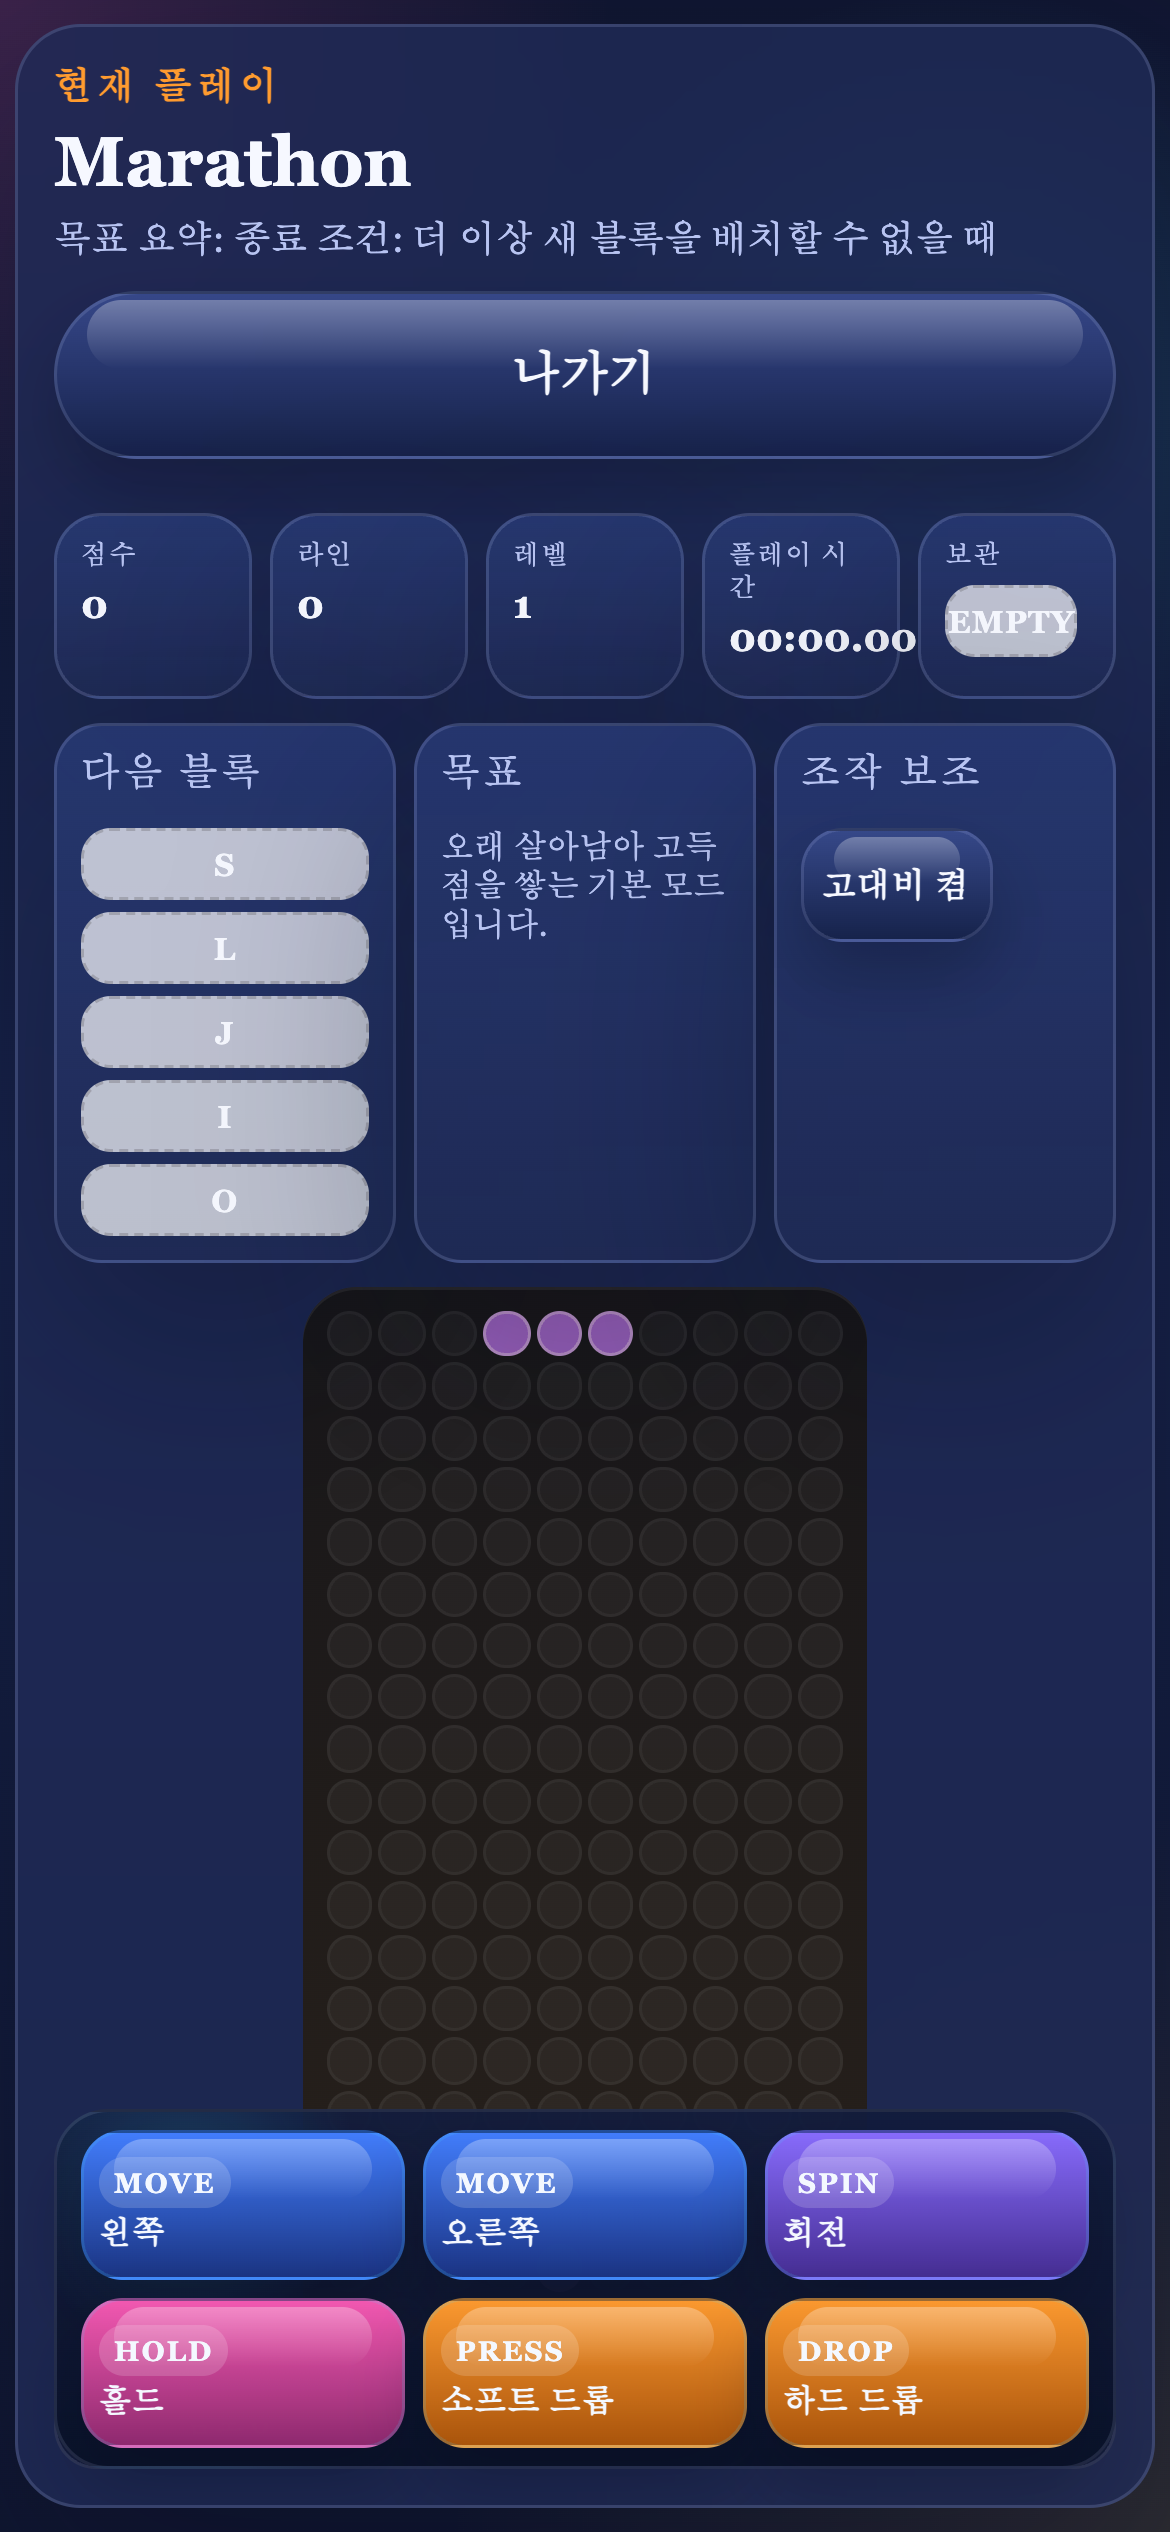
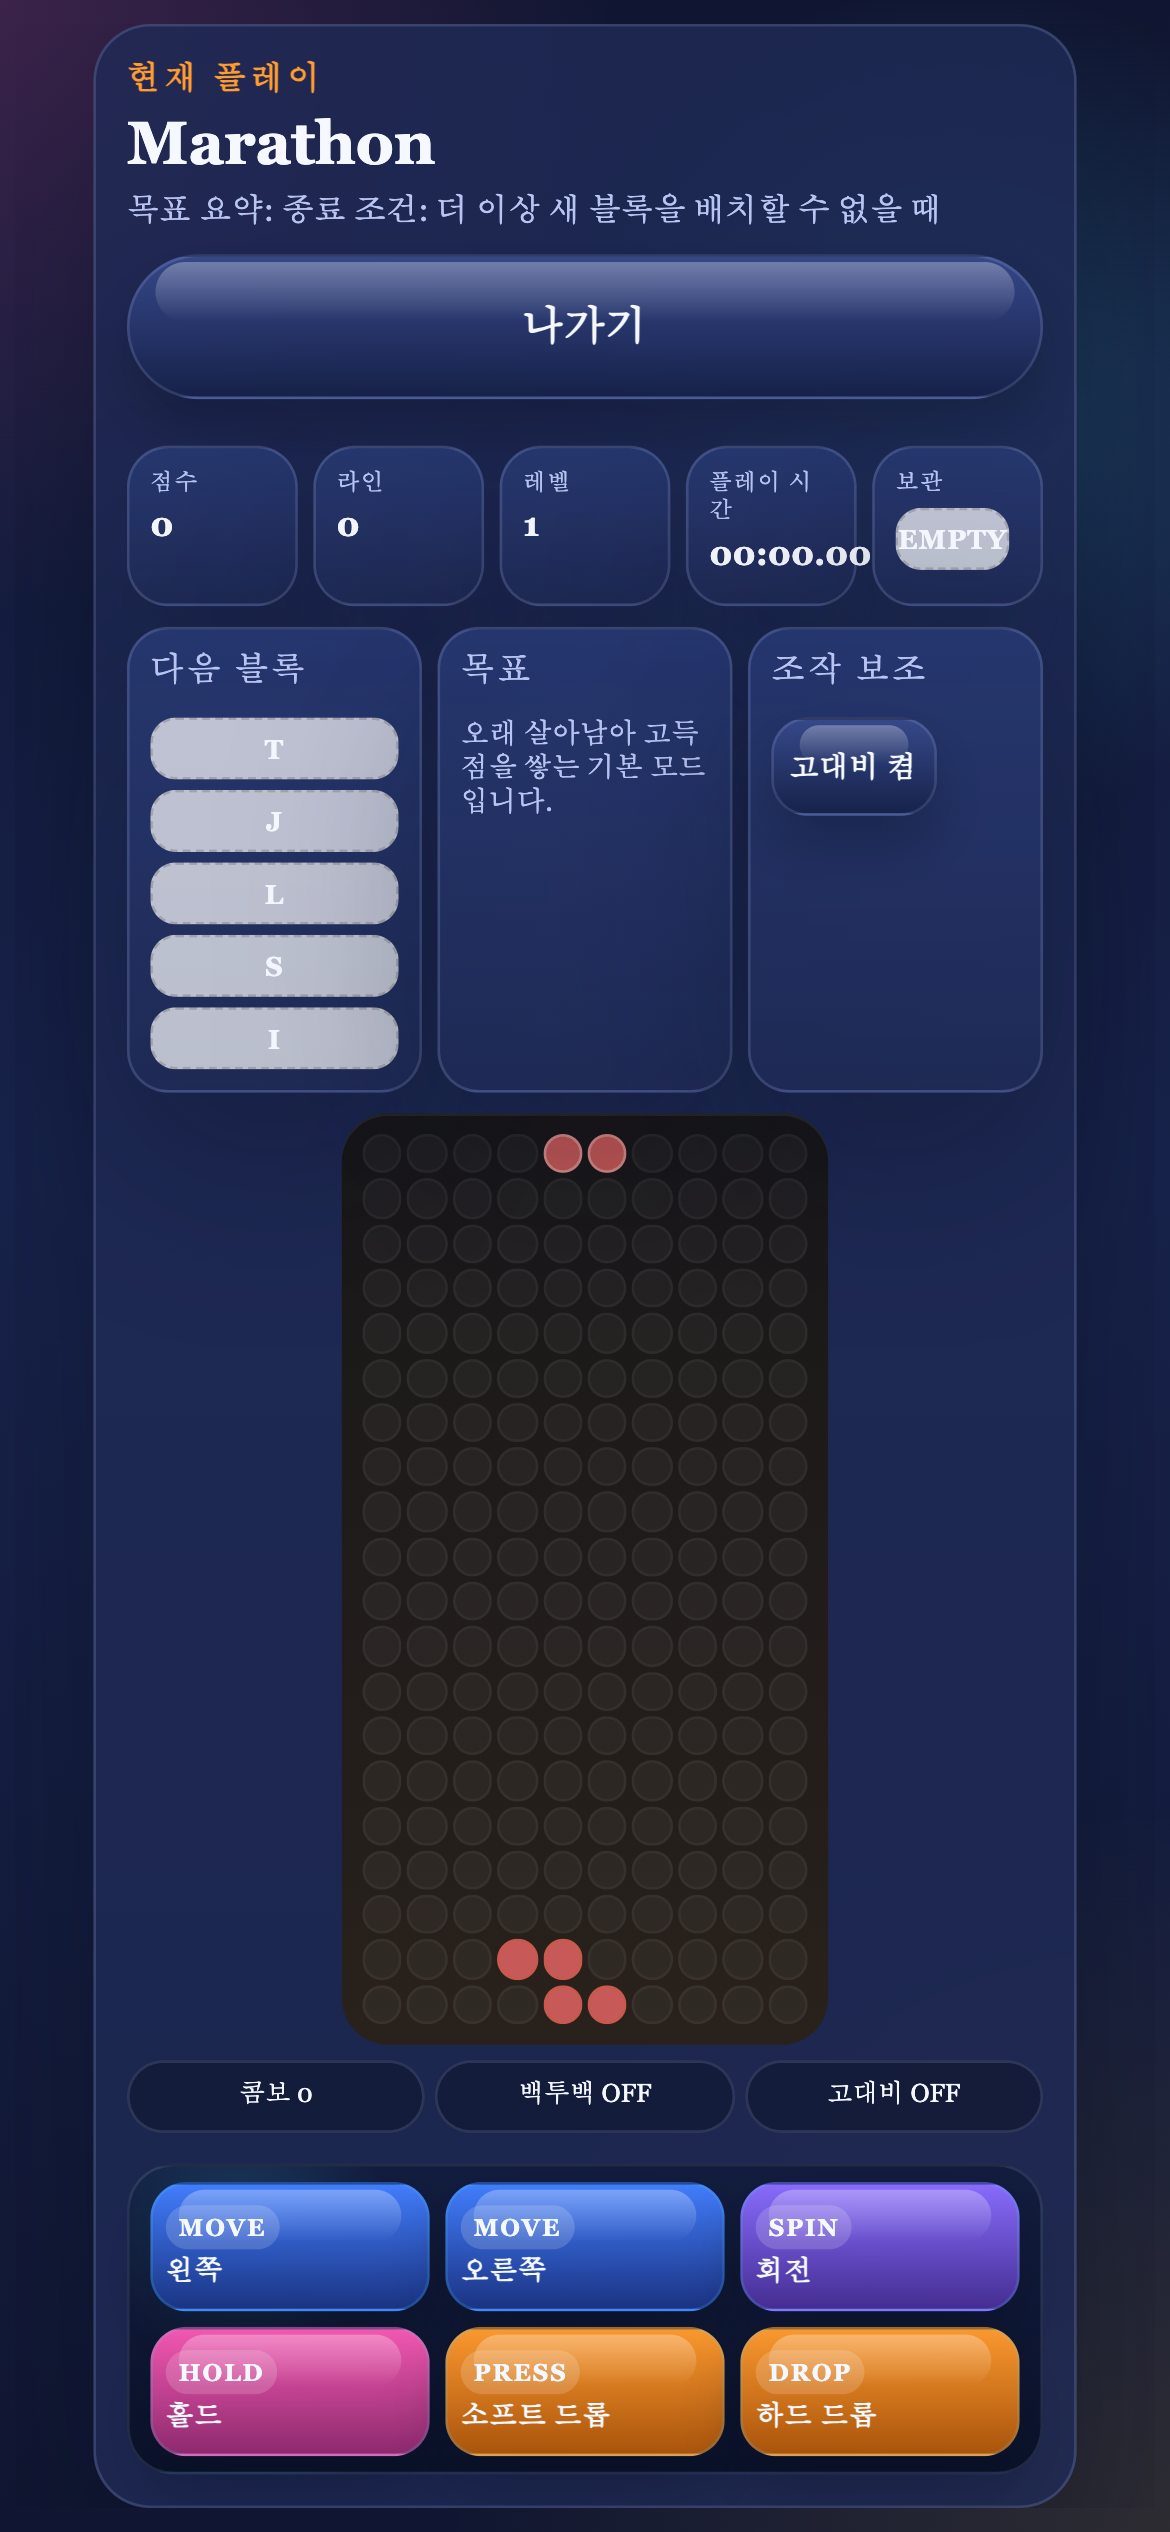
chore: add one-shot runtime scripts and sync QA docs

diff --git a/artifacts/e2e/2026-03-12/report/index.html b/artifacts/e2e/2026-03-12/report/index.html
@@ -74,4 +74,4 @@ Error generating stack: `+u.message+`
   </body>
 </html>
 <script>
[2 lines of base64/hex data omitted]

diff --git a/tests/e2e/landing.spec.ts b/tests/e2e/landing.spec.ts
@@ -133,8 +133,15 @@ test("P1-MOBILE-001 landing and result keep critical CTAs above the fold at 360x
 test("P1-PLAY-001 game HUD, board, and touch dock stay within one mobile viewport", async ({
   page
 }) => {
-  for (const viewportHeight of [800, 720, 680]) {
-    await page.setViewportSize({ width: 360, height: viewportHeight });
+  const viewports = [
+    { width: 360, height: 800 },
+    { width: 360, height: 720 },
+    { width: 360, height: 680 },
+    { width: 540, height: 680 }
+  ];
+
+  for (const viewport of viewports) {
+    await page.setViewportSize(viewport);
     await page.goto("/");
     await page.getByTestId("start-button").click();
 
@@ -167,7 +174,7 @@ test("P1-PLAY-001 game HUD, board, and touch dock stay within one mobile viewpor
       await expect(locator).toBeVisible();
       const box = await locator.boundingBox();
       expect(box).not.toBeNull();
-      expect(box!.y + box!.height).toBeLessThanOrEqual(viewportHeight);
+      expect(box!.y + box!.height).toBeLessThanOrEqual(viewport.height);
     }
   }
 });

diff --git a/apps/web/src/app/globals.css b/apps/web/src/app/globals.css
@@ -386,7 +386,25 @@ select:focus-visible {
 }
 
 .page-shell.screen-playing {
+  --play-scale: 1;
+  --play-viewport-height: auto;
   padding-bottom: calc(18px + var(--safe-bottom));
+}
+
+.screen-playing .play-viewport {
+  width: 100%;
+  min-height: 0;
+  height: var(--play-viewport-height);
+  display: flex;
+  justify-content: center;
+  align-items: flex-start;
+  overflow: hidden;
+}
+
+.screen-playing .play-scale-frame {
+  width: 100%;
+  transform-origin: top center;
+  transform: scale(var(--play-scale));
 }
 
 .compact-hero h1 {

diff --git a/apps/web/src/app/game-client.tsx b/apps/web/src/app/game-client.tsx
@@ -279,7 +279,7 @@ function modeActionVariant(mode: GameMode): CtaVariant {
 }
 
 function resolveApiBaseUrl() {
-  return process.env.NEXT_PUBLIC_API_BASE_URL ?? "http://localhost:3001/v1";
+  return process.env.NEXT_PUBLIC_API_BASE_URL ?? "http://localhost:60040/v1";
 }
 
 async function fetchJson<T>(path: string, init?: RequestInit): Promise<T> {

diff --git a/apps/api/src/main.ts b/apps/api/src/main.ts
@@ -17,7 +17,7 @@ async function bootstrap() {
     origin: true,
     credentials: true
   });
-  const port = Number(process.env.PORT ?? 3001);
+  const port = Number(process.env.PORT ?? 60040);
   const host = process.env.HOST ?? "127.0.0.1";
 
   await app.listen({ port, host });

diff --git a/3.개발자/08_작업관리대장.md b/3.개발자/08_작업관리대장.md
@@ -70,6 +70,7 @@
 | FE-018 | FE | 360x800 랜딩 CTA 3개 first-fold 보정 | High | Jaeho | DEV_DONE | FE-012 | `360x800`에서 `start-button`, `mode-button`, `ranking-button` 3개가 스크롤 없이 first-fold에 동시에 노출 | 2026-03-13 | 2026-03-13 | CTA를 Hero 상단으로 재배치하고 모바일 전용 3열 레이아웃을 적용했다. `pnpm test`, `pnpm build`, `pnpm test:e2e` 통과 |
 | FE-019 | FE | 결과 화면 CTA 4개 first-fold 및 2x2 모바일 구조 보정 | High | Jaeho | DEV_DONE | FE-010, FE-017 | `390x844`, `360x800`에서 `retry`, `ranking`, `share`, `save-record` 4개 CTA가 first-fold에 보이고 2x2 구조가 유지 | 2026-03-13 | 2026-03-13 | CTA 블록을 결과 Hero 상단으로 이동하고 모바일 전용 2x2 grid, 압축 요약 카드 레이아웃을 적용했다. `pnpm test`, `pnpm build`, `pnpm test:e2e` 통과 |
 | FE-020 | FE | 설정 시트 필수 옵션 ghost/guide 토글 보강 | Medium | Jaeho | DEV_DONE | FE-011 | 설정 시트에 `sheet-ghost-toggle`, `sheet-guide-toggle` 제공 및 동작 반영 | 2026-03-13 | 2026-03-13 | 설정 타입에 `guideOverlayEnabled`를 추가하고 고스트 피스/가이드 토글을 실제 상태와 연동했다. `pnpm test`, `pnpm build`, `pnpm test:e2e` 통과 |
+| FE-021 | FE | 플레이 화면 높이 자동 축소 및 뷰포트 적응 | High | Jaeho | DEV_DONE | FE-020 | 창 높이와 모바일 웹뷰 높이가 변해도 HUD, 보드, 조작 도크가 한 화면 안에 모두 보이도록 자동 축소된다 | 2026-03-13 | 2026-03-13 | `visualViewport`와 실측 레이아웃 높이 기준으로 플레이 패널 스케일을 동적으로 계산한다. 모바일 폭뿐 아니라 일반 브라우저 창 축소에도 적용되도록 범위를 확장했고, `360x800`, `360x720`, `360x680`, `540x680` E2E와 `pnpm build`, `pnpm test:e2e`를 통과했다 |
 | OPS-008 | OPS | 에셋 원본 출처 기록 및 credits 구조 정의 | High | Codex | DEV_DONE | FE-016 | 외부 SVG/배경/아이콘 반입 전 출처 URL, 라이선스, 크레딧 위치 정의 완료 | 2026-03-12 | 2026-03-12 | `/credits` 경로와 `apps/web/public/assets-source` 인벤토리 파일 생성, 검증 명령 통과 |
 | BE-003 | BE | 결과 제출 멱등 처리 구현 | High |  | TODO | BE-002 | 동일 키 재전송 정책 통과 |  |  |  |
 | FE-007 | FE | 첫 3판 PB 강조 결과 상태 확장 | Medium |  | TODO | BE-003 | 첫 3판 개인 최고 기록 갱신 시 강조 연출과 CTA 인접 유도 상태 제공 |  |  | D3 이전 선행 설계 반영 대상 |
@@ -80,10 +81,10 @@
 | QA-003 | QA | D2 선행 보정 제3자 시험 수행 | High | 테스터 | DONE | FE-006 | `GE-003 ~ FE-006` 범위 결과 기록 및 판정 | 2026-03-12 | 2026-03-12 | 결과서 직접 확인 Pass, 개발 측 `pnpm test:e2e` 재실행 Pass로 종합 종료 |
 | QA-004 | QA | D2 UI 1차 화면 제3자 시험 수행 | High | 테스터 | TODO | FE-011 | `FE-008 ~ FE-011` 범위 결과 기록 및 판정 | 2026-03-12 |  | 전달 문서 `21_테스터전달_D2_UI1차시험요청.md` 기준 수행 예정 |
 | QA-005 | QA | D2 UI 강화 재시험 수행 | High | 테스터 | QA_FAIL | FE-013 | `FE-008 ~ FE-013` 범위 구조/시각 강화 결과 기록 및 판정 | 2026-03-12 | 2026-03-13 | `11_D2_UI강화_시험결과서.md` 기준 `Partial Pass`, `TC-001A`, `TC-016`, `TC-016A`, `TC-026B` 미충족 |
-| QA-006 | QA | D2 UI 강화 보정 후 재시험 수행 | High | 테스터 | TODO | FE-018, FE-019, FE-020 | `360x800` 랜딩 CTA, 결과 CTA 2x2/first-fold, 설정 시트 필수 옵션 재검증 | 2026-03-13 |  | 보정 구현과 내부 검증 완료, 전달 문서 `25_테스터전달_D2_UI보정_재시험요청.md` 기준 제3자 재시험만 남음 |
+| QA-006 | QA | D2 UI 강화 보정 후 재시험 수행 | High | 테스터 | TODO | FE-018, FE-019, FE-020, FE-021 | `360x800` 랜딩 CTA, 결과 CTA 2x2/first-fold, 설정 시트 필수 옵션, 플레이 화면 전체 viewport-fit 재검증 | 2026-03-13 |  | 보정 구현과 내부 검증 완료, 전달 문서 `25_테스터전달_D2_UI보정_재시험요청.md` 기준 제3자 재시험만 남음 |
 | ADMIN-001 | ADMIN | Daily Challenge 관리 화면 구현 | Medium |  | TODO | BE-003 | 예약 생성 가능 |  |  |  |
 
 ## 5. 주간 갱신 메모
-- 갱신 일시: 2026-03-13 01:01 KST
+- 갱신 일시: 2026-03-13 01:36 KST
 - 갱신자: Jaeho
-- 주요 변경: `FE-018`, `FE-019`, `FE-020` 보정을 완료했다. 랜딩 CTA를 first-fold 우선 구조로 재배치했고, 결과 화면 CTA 4개를 모바일 2x2 구조로 복원했으며, 설정 시트에 `sheet-ghost-toggle`, `sheet-guide-toggle`과 실제 상태 연동을 추가했다. `pnpm test`, `pnpm build`, `pnpm test:e2e`를 모두 통과했고 현재는 `QA-006` 제3자 재시험 대기 상태다.
+- 주요 변경: `FE-021`을 보정해 플레이 화면 자동 축소를 모바일 폭 전용이 아니라 일반 브라우저 창 축소에도 적용되도록 확장했다. 창 높이와 웹뷰 높이가 변해도 HUD, 보드, 조작 도크가 한 화면 안에 들어오도록 `visualViewport` 기반 동적 스케일 계산을 유지했고, Playwright에 `540x680` 검증을 추가했다. `pnpm build`, `pnpm test:e2e`를 통과했고 현재는 `QA-006` 제3자 재시험 대기 상태다.

diff --git a/3.개발자/10_의사결정기록서.md b/3.개발자/10_의사결정기록서.md
@@ -44,6 +44,7 @@
 | ADR-031 | 2026-03-13 | D2 모드 판정과 시간 추적 기준 | D2 본 기능에서는 중력 tick과 소프트 드롭을 분리해 자동 낙하에 점수를 주지 않고, Sprint는 40라인 달성 시 즉시 `GOAL_COMPLETE`로 종료하며, Daily Challenge는 현재 활성 챌린지의 `ruleType`, `goalValue`를 엔진에 주입해 진행도와 목표 완료를 판정한다 | 기존 구현은 자동 중력도 소프트 드롭 점수로 계산되고 Sprint 결과 화면도 실제 기록 시간이 아니라 진행 라인만 보여 D2 설계 기준과 어긋났다. 모드 규칙과 결과 지표를 지금 고정해야 이후 기록 제출 API와 QA가 같은 기준을 쓸 수 있다 | 현 UI만 유지하고 모드 완료/시간은 D3에서 정리 | game-engine 세션 상태, 공개 웹 HUD/결과 화면, E2E, 이후 BE-003 결과 제출 payload | `GE-004`, `FE-017`을 완료하고 제3자 시험 시 Sprint 완료 시간과 Daily 진행도 노출을 함께 확인한다 | Jaeho | D2 모드 코어 기준 고정 |
 | ADR-032 | 2026-03-13 | D2 UI 강화 Partial Pass 처리 원칙 | 테스터 결과서 `4.테스터/11_D2_UI강화_시험결과서.md`의 `Partial Pass`를 수용하고, Pass 항목은 닫되 미충족 항목은 `FE-018`, `FE-019`, `FE-020`으로 분리해 D2를 유지한다 | 공식 명령은 모두 Pass였지만, 모바일 세로 first-fold와 설정 시트 필수 옵션은 화면설계서 완료 기준의 일부라서 D2를 종료 처리하면 기준이 무너진다 | 결과서의 명령 Pass만 근거로 D2 종료, 실패 항목을 D3 이후로 이월 | 개발계획서, 작업관리대장, 이슈/결함대장, D2 재시험 범위 | 후속 재시험은 `QA-006`으로 다시 인계한다 | Jaeho | D2 종료 보류 |
 | ADR-033 | 2026-03-13 | 모바일 first-fold 우선 구조 재배치 | 랜딩은 CTA 3개를 보상 스탬프보다 앞에 배치하고 `360x800`에서 3열 CTA로 고정한다. 결과 화면은 CTA 4개를 요약 카드보다 먼저 배치하고 모바일에서 2x2 grid를 유지한다. 설정 시트는 `ghost`, `guide` 토글을 실제 설정값으로 관리한다 | D2 UI 강화 재시험 실패 원인은 대부분 콘텐츠 부족이 아니라 세로 뷰포트에서 우선순위가 뒤집힌 구조였다. first-fold 기준은 CSS 미세조정보다 정보 위계 재배치가 더 직접적인 해결책이다 | 기존 순서 유지, 패딩/폰트만 축소 | 공개 웹 랜딩, 결과 화면, 설정 시트, Playwright 회귀 테스트 | `FE-018`, `FE-019`, `FE-020` 완료 후 `QA-006`으로 재시험 인계 | Jaeho | D2 UI 보정 기준 고정 |
+| ADR-034 | 2026-03-13 | 플레이 화면은 창 높이에 맞춰 자동 축소한다 | 플레이 화면은 고정 `100dvh` 압축만으로 닫지 않고, `visualViewport`와 실측 레이아웃 높이를 기준으로 스케일 값을 다시 계산해 HUD, 보드, 조작 도크 전체가 한 화면 안에 보이도록 자동 축소한다. 이 기준은 모바일 폭뿐 아니라 일반 브라우저 창 축소에도 동일하게 적용한다 | 실제 수동 검증에서 전체화면과 일반 창 모두에서 브라우저 UI, 기기 safe area, 창 높이 차이 때문에 하단 조작 도크가 잘릴 수 있었다. 설계 기준상 이는 미관 문제가 아니라 플레이 불가 결함이므로, 뷰포트 실측 기준 자동 보정이 필요하다 | 모바일 전용 고정 padding 축소만 유지, 더 작은 뷰포트는 비지원으로 간주 | 공개 웹 플레이 화면, 모바일 반응형 CSS, Playwright viewport-fit 회귀 테스트, D2 재시험 범위 | `FE-021`로 구현하고 `360x800`, `360x720`, `360x680`, `540x680`에서 한 화면 적합 여부를 자동 검증한다 | Jaeho | 플레이 화면 동적 스케일 기준 고정 |
 
 ## 4. 작성 예시
 ### ADR-EXAMPLE

diff --git a/3.개발자/07_개발관리_개발계획서.md b/3.개발자/07_개발관리_개발계획서.md
@@ -308,9 +308,9 @@
 - blocker 관리
 
 ## 12. 현재 진행 상태
-- 기준일: 2026-03-13 01:01 KST
+- 기준일: 2026-03-13 01:36 KST
 - 현재 단계: `D2 모드 완성`
-- 현재 상태: `D2-QA_READY`. 테스터 결과서 `4.테스터/11_D2_UI강화_시험결과서.md`의 미충족 항목을 기준으로 후속 보정 `FE-018`, `FE-019`, `FE-020`을 완료했다. 랜딩 Hero에서는 CTA를 보상 스탬프보다 앞에 두고 `360x800` 전용 3열 CTA 레이아웃을 적용해 first-fold 기준을 보정했다. 결과 화면은 CTA 4개를 요약 카드보다 먼저 배치하고 모바일 2x2 구조를 강제했으며, 설정 시트에는 `sheet-ghost-toggle`, `sheet-guide-toggle`과 실제 상태 연동을 추가했다. 현재까지 `pnpm test`, `pnpm build`, `pnpm test:e2e`를 모두 통과했고, Playwright에 `360x800` first-fold 검증을 추가했다.
+- 현재 상태: `D2-QA_READY`. 테스터 결과서 `4.테스터/11_D2_UI강화_시험결과서.md`의 미충족 항목을 기준으로 후속 보정 `FE-018`, `FE-019`, `FE-020`을 완료했고, 추가로 수동 재현된 플레이 화면 하단 잘림 문제를 `FE-021`로 보정했다. 현재 플레이 화면은 `visualViewport`와 실측 레이아웃 높이를 기준으로 동적 스케일을 계산하며, 모바일 폭 전용이 아니라 일반 브라우저 창 축소에도 적용된다. 따라서 창 높이와 모바일 웹뷰 높이가 달라도 HUD, 보드, 조작 도크가 한 화면 안에 모두 보이도록 맞춘 상태다. 현재까지 `pnpm build`, `pnpm test:e2e`를 통과했고, Playwright에는 `360x800`, `360x720`, `360x680`, `540x680` viewport-fit 검증을 반영했다.
 - 남은 확인: `QA-006` 제3자 재시험 결과 반영, 후속 `BE-003` 결과 제출 멱등 처리
 - 현재 blocker: 없음
 - 자동화 합의 상태: `4.테스터/03_테스터_요구사항_자동화대응.md`와 `4.테스터/04_개발자검토의견_회신.md` 기준으로 문서 간 이견 해소 완료

diff --git a/3.개발자/25_테스터전달_D2_UI보정_재시험요청.md b/3.개발자/25_테스터전달_D2_UI보정_재시험요청.md
@@ -2,7 +2,7 @@
 
 ## 1. 목적
 - 본 문서는 `4.테스터/11_D2_UI강화_시험결과서.md`의 미충족 항목 보정 후 재시험 범위를 전달하기 위한 문서다.
-- 재시험 대상은 `FE-018`, `FE-019`, `FE-020`이다.
+- 재시험 대상은 `FE-018`, `FE-019`, `FE-020`, `FE-021`이다.
 
 ## 2. 재시험 대상
 - `TC-001A`
@@ -13,6 +13,9 @@
   - 결과 CTA 4개가 모바일 세로에서 2x2 구조를 유지하는지 확인
 - `TC-026B`
   - 설정 시트에 `sheet-ghost-toggle`, `sheet-guide-toggle`이 노출되고 클릭 가능한지 확인
+- `TC-PLAY-VIEWPORT`
+  - `360x800` 기본 확인뿐 아니라 창 높이 축소 조건에서도 플레이 화면 `HUD`, `보드`, `조작 도크`가 한 화면 안에 모두 보이는지 확인
+  - 최소 확인 기준: `360x720`, `360x680`에서 `score-value`, `game-canvas`, `touch-controls`가 모두 first viewport 안에 존재
 
 ## 3. 반영 내용
 - 랜딩 CTA 3개를 Hero 상단으로 재배치했다.
@@ -21,6 +24,7 @@
 - 모바일 세로에서 결과 CTA 4개를 2x2 grid로 고정했다.
 - 설정 시트에 `sheet-ghost-toggle`, `sheet-guide-toggle`을 추가했다.
 - `guideOverlayEnabled` 설정값을 도입해 가이드 오버레이 노출 여부를 실제 상태로 관리한다.
+- 플레이 화면은 `visualViewport`와 실측 레이아웃 높이를 기준으로 자동 축소되도록 변경했다.
 
 ## 4. 개발 측 내부 검증
 - `pnpm test` Pass
@@ -34,5 +38,5 @@
 - `pnpm test:e2e`
 
 ## 6. 판정 기준
-- 위 4개 테스트케이스가 모두 Pass면 `QA-006`은 Pass로 처리한다.
+- 위 항목이 모두 Pass면 `QA-006`은 Pass로 처리한다.
 - 하나라도 미충족이면 화면 캡처와 함께 Fail 항목을 다시 기록한다.
